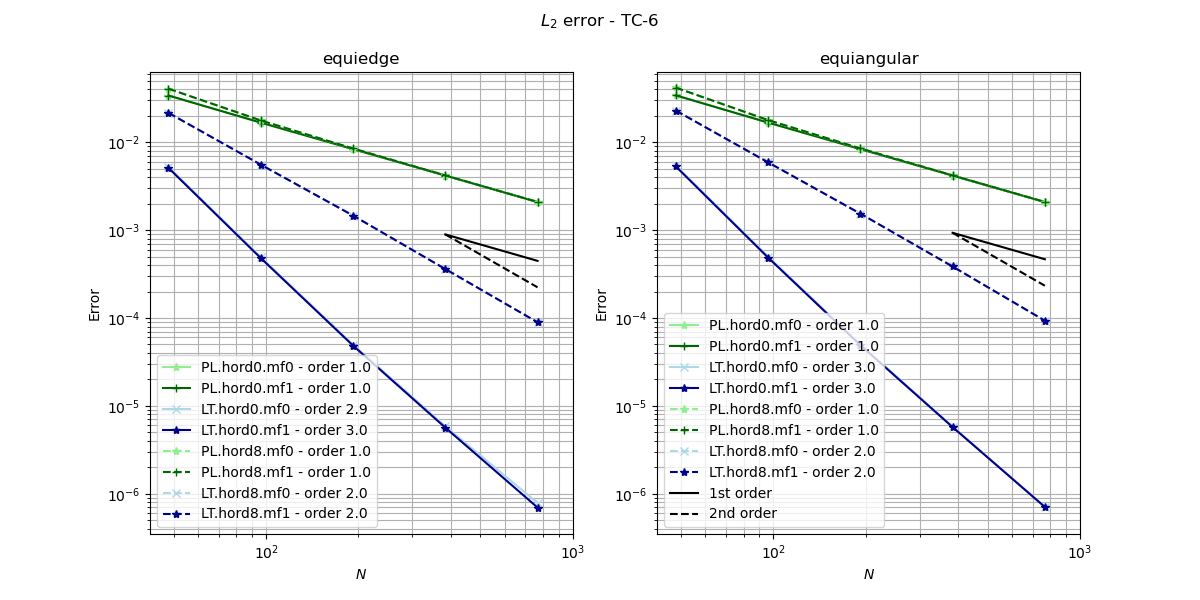
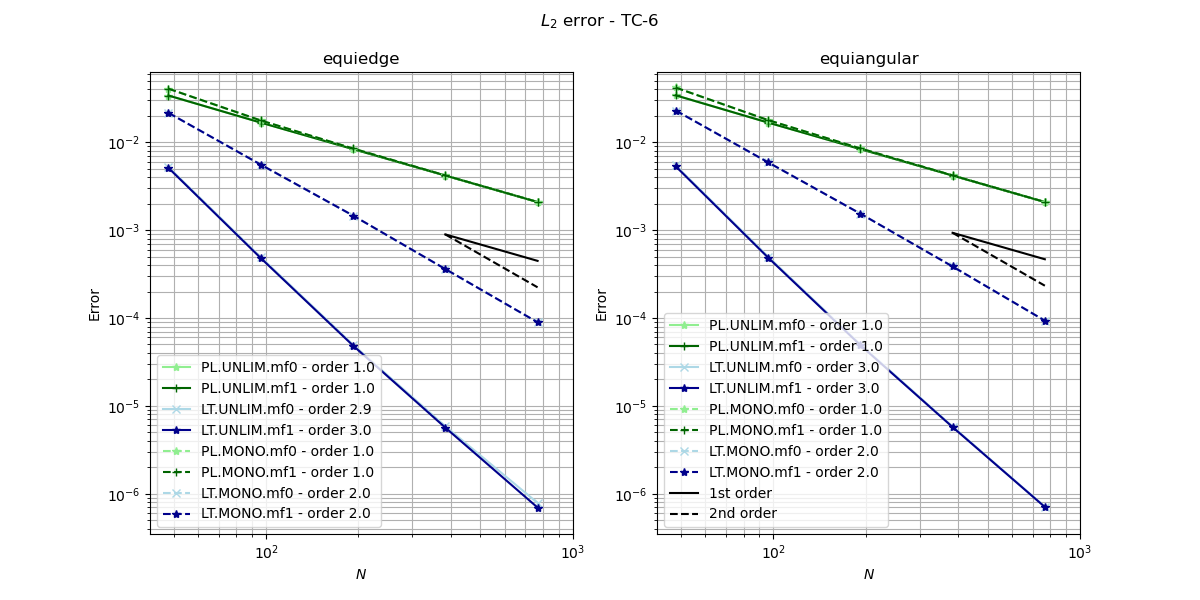
mono and unlim in chp5

Changed region(s): [[0.5858, 0.51, 0.74, 0.81], [0.185, 0.6, 0.3392, 0.87]]

diff --git a/conteudo/05-cs-fv.tex b/conteudo/05-cs-fv.tex
@@ -273,7 +273,7 @@ we introduce the following PPM flux in the $x$ direction (recall Equation \eqref
 	\end{cases}
 \end{align}
 for each $j=-\nu+1, \ldots, N+\nu$ and $i=1, \ldots, N$, and
-where the PPM perturbation values $b^L$ and $b^R$ values are computed using the unlimited PPM hord0 (Section \ref{chp-adv1d-sec-hord0}) or the limited PPM (hord8) (Section \ref{chp-adv1d-sec-hord8})
+where the PPM perturbation values $b^L$ and $b^R$ values are computed using the unlimited PPM (Section \ref{chp-adv1d-sec-hord0}) or the monotonic (Section \ref{chp-adv1d-sec-hord8})
 
 Therefore, we may rewrite Equation \eqref{1d-qx} as
 \begin{equation}
@@ -621,7 +621,7 @@ For an expression of the exact solution when using VF1 and a general initial con
 
 We are going to consider the schemes LT-DP2 and PL-DP1 since these schemes yield better results on planar simulations (Section \ref{sec-ds-exp}).
 For a shorter notation, we shall denote LT-DP2 and PL-DP1 by \textbf{LT} and \textbf{PL} advection schemes. 
-These schemes will be tested using the unlimited PPM (hord0) and the limited PPM (hord8) 1D PPM schemes.
+These schemes will be tested using the unlimited PPM  and the monotonic PPM scheme.
 As we mentioned in Section \ref{sec-metricppm}, the PL scheme needs the \textbf{mt1} 
 metric term formulation for the 1D flux operators to eliminate the splitting error for a constant scalar field.
 For the LT scheme, we shall use the \textbf{mt0} metric term formulation because for this scheme, 
@@ -697,7 +697,7 @@ eventually returning to its initial position.
 		8  \eqref{chp-advcs-sec-exp-adv2-d},
 		10  \eqref{chp-advcs-sec-exp-adv2-e},
 		and 12  \eqref{chp-advcs-sec-exp-adv2-f} days.
-		We are using the LT-hord8-mf1 scheme on the equiangular grid (g2) with $N=384$. \label{chp-advcs-sec-exp-adv2}}
+		We are using the LT-MONO-mf1 scheme on the equiangular grid (g2) with $N=384$. \label{chp-advcs-sec-exp-adv2}}
 \end{figure}
 
 The goal of this test is to observe the ability of all schemes and grids to perform this test without creating
@@ -706,12 +706,12 @@ In fact, in Figure \ref{chp-advcs-sec-exp-adv2-evol-linf} we show how the error 
 Similarly, Figure \ref{chp-advcs-sec-exp-adv2-evol-l2} shows the error evolution over time in the $L_2$ norm.
 Both figures use green lines to represent the PL scheme and blue lines to represent the LT scheme.
 Light colors denote cases where the mass fixer is not used, while dark colors represent cases where it is used. 
-Dashed lines represent the limited PPM (hord8) while solid lines represent the unlimited PPM (hord0).
+Dashed lines represent the monotonic while solid lines represent the unlimited PPM.
 
 \newpage
 In terms of the $L_2$ norm, as shown in Figure \ref{chp-advcs-sec-exp-adv2-evol-l2}, 
 no spikes are observed in the graphs corresponding to the days when the Gaussian passes over a corner.
-Another conclusion is that the mass fixer does not have too much impact on error evolution when the limited PPM (hord8) scheme is used.
+Another conclusion is that the mass fixer does not have too much impact on error evolution when the monotonic scheme is used.
 However, from Figure \ref{chp-advcs-sec-exp-adv2-evol-linf} we can see some small spikes in the $L_{\infty}$ error
 on the equi-edge grid (g0) when using the PL scheme, which is not very pronounced in the LT scheme.
 \begin{figure}[!htb]
@@ -721,7 +721,7 @@ on the equi-edge grid (g0) when using the PL scheme, which is not very pronounce
 		$L_{\infty}$ error evolution for IC1 (Table \ref{chp5-ic}) and VF1 (Table \ref{chp5-vf}) 
 		on the equi-edge grid (g0, left) and on the equiangular grid (g2, right) grids for 12 days and $N=384$.
 		Blue lines indicate the use of the LT scheme, while green lines represent the PL scheme.
-		Solid lines represent the results with the unlimited PPM (hord0) scheme, whereas dashed lines represent the results with the limited PPM (hord8).
+		Solid lines represent the results with the unlimited PPM (UNLIM) scheme, whereas dashed lines represent the results with the monotonic (MONO).
 		Light colors show the result without mass fixer (mf0), whereas dark colors show the results with flux averaging (mf1).
 		\label{chp-advcs-sec-exp-adv2-evol-linf}}
 \end{figure}
@@ -733,7 +733,7 @@ on the equi-edge grid (g0) when using the PL scheme, which is not very pronounce
 \end{figure}
 
 \newpage
-This indicates that LT is less sensitive to corners than PL when using hord8. 
+This indicates that LT is less sensitive to corners than PL when using MONO. 
 Indeed, Figure \ref{chp-advcs-sec-exp-adv2-errors-0} shows the final error at a cube corner for the equi-edge grid (g0), 
 and Figure \ref{chp-advcs-sec-exp-adv2-errors-2} shows it for the equiangular grid (g2).
 The results without a mass fixer are very similar and are not shown here. 
@@ -757,7 +757,7 @@ indicating that the equi-edge grid (g0) is less sensitive to the corner for the 
 	\end{subfigure}
 	\caption{
 		Advection experiment errors at a cube corner using the Gaussian hill (IC1, Table \ref{chp5-ic}) and  
-		the rotated zonal wind (VF1, Table \ref{chp5-vf}) after 12 days, using the limited PPM scheme (hord8) 
+		the rotated zonal wind (VF1, Table \ref{chp5-vf}) after 12 days, using the monotonic scheme (MONO) 
 		with PL (left) and LT schemes (right) on the equi-edge grid (g0) with $N=384$. 
 		\label{chp-advcs-sec-exp-adv2-errors-0}}
 \end{figure}
@@ -779,9 +779,9 @@ indicating that the equi-edge grid (g0) is less sensitive to the corner for the 
 
 \newpage
 Finally, in Figures \ref{chp-advcs-sec-exp-adv2-linf} and \ref{chp-advcs-sec-exp-adv2-l2} we show the error convergence in $L_{\infty}$ and $L_{2}$ norms.
-We can observe that all schemes with the unlimited PPM (hord0) achieve second-order accuracy as expected.
-However, for hord8, the order is reduced, which is also expected.
-Additionally, we can see that hord8 with LT has smaller errors when comparing the blue dashed lines with the green dashed lines, 
+We can observe that all schemes with the unlimited PPM (UNLIM) achieve second-order accuracy as expected.
+However, for MONO, the order is reduced, which is also expected.
+Additionally, we can see that MONO with LT has smaller errors when comparing the blue dashed lines with the green dashed lines, 
 for both $L_{\infty}$ and $L_{2}$ norms on both equi-edge grid (g0) and the equiangular grid (g2), indicating that LT is more accurate.
 In general, the errors of g0 are slightly smaller than those of g2.
 \begin{figure}[!htb]
@@ -792,7 +792,7 @@ $L_{\infty}$ error convergence for the advection on the sphere test using the Ga
 the rotated zonal wind  (VF1, Table \ref{chp5-vf}) on the equi-edge grid (g0, left) 
 and on the equiangular grid (g2, right) after 12 days.
 Blue lines indicate the use of the LT scheme, while green lines represent the PL scheme.
-Solid lines represent the results with the unlimited PPM (hord0) scheme, whereas dashed lines represent the results with limited PPM (hord8).
+Solid lines represent the results with the unlimited PPM (UNLIM) scheme, whereas dashed lines represent the results with the monotonic PPM (MONO).
 Light colors show the result without mass fixer (mf0), whereas dark colors show the results with flux averaging (mf1).\label{chp-advcs-sec-exp-adv2-linf}}
 \end{figure}
 
@@ -824,7 +824,7 @@ For $N=384$, the temporal evolution of the errors is very similar to that of IC1
 	\end{subfigure}
 	\caption{
 		Advection experiment errors at a cube corner using the cosine bell (IC2, Table \ref{chp5-ic}) and  
-the rotated zonal wind (VF1, Table \ref{chp5-vf}) after 12 days, using the limited PPM scheme (hord8) 
+the rotated zonal wind (VF1, Table \ref{chp5-vf}) after 12 days, using the monotonic scheme (MONO) 
 		with PL (left) and LT schemes (right) on the equi-edge grid (g0) grid with $N=384$. 
 		\label{chp-advcs-sec-exp-adv5-errors-0}}
 \end{figure}
@@ -851,11 +851,11 @@ We conclude again that LT has a smaller error at the corner, especially for the 
 In Figures \ref{chp-advcs-sec-exp-adv5-linf} and \ref{chp-advcs-sec-exp-adv5-l2},
 we show the error convergence for the $L_{\infty}$ and $L_2$ norms, respectively.
 Note that the errors in the $L_{\infty}$ norm (Figure \ref{chp-advcs-sec-exp-adv5-linf})
-for the unlimited PPM (hord0) (solid lines) are not achieving second order as they should because the solution is not differentiable.
-For hord8 (dashed lines), we can see that the $L_{\infty}$ errors for LT (blue lines) are smaller than the errors of PL (green lines), especially for the equi-edge grid (g0).
-Also, for the equi-edge grid (g0), the order of the LT-hord8 scheme in the $L_{\infty}$ norm gets very close to 2,
+for the unlimited PPM (solid lines) are not achieving second order as they should because the solution is not differentiable.
+For MONO (dashed lines), we can see that the $L_{\infty}$ errors for LT (blue lines) are smaller than the errors of PL (green lines), especially for the equi-edge grid (g0).
+Also, for the equi-edge grid (g0), the order of the LT-MONO scheme in the $L_{\infty}$ norm gets very close to 2,
 and for the equiangular grid (g2), its order surpasses two.
-These results for LT-hord8 are better than expected and are not observed for the PL-hord8 scheme.
+These results for LT-MONO are better than expected and are not observed for the PL-MONO scheme.
 Finally, the $L_2$ errors are very similar (Figure \ref{chp-advcs-sec-exp-adv5-l2}).
 \begin{figure}[!htb]
 	\centering
@@ -865,7 +865,7 @@ Finally, the $L_2$ errors are very similar (Figure \ref{chp-advcs-sec-exp-adv5-l
 		the rotated zonal wind  (VF1, Table \ref{chp5-vf}) on the equi-edge grid (g0, left) 
 		and on the equiangular grid (g2, right) after 12 days.
 		Blue lines indicate the use of the LT scheme, while green lines represent the PL scheme.
-		Solid lines represent the results with the unlimited PPM (hord0) scheme, whereas dashed lines represent the results with limited PPM (hord8).
+		Solid lines represent the results with the unlimited PPM (UNLIM) scheme, whereas dashed lines represent the results with monotonic (MONO).
 		Light colors show the result without mass fixer (mf0), whereas dark colors show the results with flux averaging (mf1).
 		\label{chp-advcs-sec-exp-adv5-linf}}
 \end{figure}
@@ -924,7 +924,7 @@ We show how the solution evolves with time in Figure \ref{chp-advcs-sec-exp-adv6
 		8  \eqref{chp-advcs-sec-exp-adv6-d},
 		10  \eqref{chp-advcs-sec-exp-adv6-e},
 		and 12  \eqref{chp-advcs-sec-exp-adv6-f} days.
-		We are using the LT-hord8-mf1 scheme on the equiangular grid (g2) with $N=192$. \label{chp-advcs-sec-exp-adv6}}
+		We are using the LT-MONO-mf1 scheme on the equiangular grid (g2) with $N=192$. \label{chp-advcs-sec-exp-adv6}}
 \end{figure}
 
 The goal of this test is to assess the qualitative behavior of the solution, 
@@ -938,23 +938,23 @@ It is evident that all the schemes yield similar results, and we cannot observe 
 	\begin{subfigure}{0.3\textwidth}
 		\centering
 		\includegraphics[width=1\linewidth]{h_tc-7_t12_alpha45_C192_g0_dg2_adv1_hord8_mf1_tf12}
-		\caption{PL-hord8 at g0.\label{chp-advcs-sec-exp-adv7-b}}
+		\caption{PL-MONO at g0.\label{chp-advcs-sec-exp-adv7-b}}
 	\end{subfigure}
 	\begin{subfigure}{0.3\textwidth}
 		\centering
 		\includegraphics[width=1\linewidth]{h_tc-7_t12_alpha45_C192_g0_dg2_adv2_hord8_mf1_tf12}
-		\caption{LT-hord8 at g0.\label{chp-advcs-sec-exp-adv7-c}}
+		\caption{LT-MONO at g0.\label{chp-advcs-sec-exp-adv7-c}}
 	\end{subfigure}
 	
 	\begin{subfigure}{0.3\textwidth}
 		\centering
 		\includegraphics[width=1\linewidth]{h_tc-7_t12_alpha45_C192_g2_dg2_adv1_hord8_mf1_tf12}
-		\caption{PL-hord8 at g2.\label{chp-advcs-sec-exp-adv7-d}}
+		\caption{PL-MONO at g2.\label{chp-advcs-sec-exp-adv7-d}}
 	\end{subfigure}
 	\begin{subfigure}{0.3\textwidth}
 	\centering
 	\includegraphics[width=1\linewidth]{h_tc-7_t12_alpha45_C192_g2_dg2_adv2_hord8_mf1_tf12a}
-	\caption{PL-hord8 at g2.\label{chp-advcs-sec-exp-adv7-e}}
+	\caption{PL-MONO at g2.\label{chp-advcs-sec-exp-adv7-e}}
     \end{subfigure}
 
 	\begin{subfigure}{0.3\textwidth}
@@ -963,9 +963,9 @@ It is evident that all the schemes yield similar results, and we cannot observe 
 	\caption{IC and exact solution at day 12.\label{chp-advcs-sec-exp-adv7-a}}
     \end{subfigure}
 	\caption{Cylinder at corner test with $N=192$ after 12 days for the schemes 
-	PL-hord8 at the equi-edge grid (g0) (a),	LT-hord8 at the equi-edge grid (g0) (b), 
-	PL-hord8 at the equiangular grid (g2) (c) and LT-hord8 at the equiangular grid (g2) (d).
-	(e) depicts the reference solution. The limited PPM scheme is denoted by hord8.
+	PL-MONO at the equi-edge grid (g0) (a),	LT-MONO at the equi-edge grid (g0) (b), 
+	PL-MONO at the equiangular grid (g2) (c) and LT-MONO at the equiangular grid (g2) (d).
+	(e) depicts the reference solution. The monotonic scheme is denoted by MONO.
 	\label{chp-advcs-sec-exp-adv7}}
 \end{figure}
 
@@ -1020,7 +1020,7 @@ This test is the spherical analogous of the planar divergence free deformational
 		8  \eqref{chp-advcs-sec-exp-adv3-d},
 		10  \eqref{chp-advcs-sec-exp-adv3-e},
 		and 12  \eqref{chp-advcs-sec-exp-adv3-f} days.
-		We are using the LT-hord8-mf1 scheme on the equiangular grid (g2) with $N=384$.\label{chp-advcs-sec-exp-adv3}}
+		We are using the LT-MONO-mf1 scheme on the equiangular grid (g2) with $N=384$.\label{chp-advcs-sec-exp-adv3}}
 \end{figure}
 
 Figures \ref{chp-advcs-sec-exp-adv3-errors-0} and \ref{chp-advcs-sec-exp-adv3-errors-2} show 
@@ -1050,7 +1050,7 @@ These figures show the advected profile after
 8  \eqref{chp-advcs-sec-exp-adv3-d},
 10  \eqref{chp-advcs-sec-exp-adv3-e},
 and 12  \eqref{chp-advcs-sec-exp-adv3-f} days.
-We are using the LT-hord8-mf1 scheme on the equiangular grid (g2) with $N=384$.
+We are using the LT-MONO-mf1 scheme on the equiangular grid (g2) with $N=384$.
 		 \label{chp-advcs-sec-exp-adv3-errors-0}}
 \end{figure}
 \begin{figure}[!htb]
@@ -1068,9 +1068,9 @@ We are using the LT-hord8-mf1 scheme on the equiangular grid (g2) with $N=384$.
 	\caption{As Figure \ref{chp-advcs-sec-exp-adv3-errors-0} but using the equiangular grid (g2).\label{chp-advcs-sec-exp-adv3-errors-2}}
 \end{figure}
 Figures \ref{chp-advcs-sec-exp-adv3-linf} and \ref{chp-advcs-sec-exp-adv3-l2} we show the error convergence in $L_{\infty}$ and $L_{2}$ norms.
-Once more, it is evident that all schemes with the unlimited PPM (hord0) achieve second-order accuracy as expected, while those with limited PPM (hord8) experience a reduced order 
-in $L_{\infty}$ norm. In $L_{2}$ norm, the order is 2 for hord8.
-Furthermore, LT demonstrates smaller errors when utilizing hord8, reaffirming that LT is indeed more accurate than PL.
+Once more, it is evident that all schemes with the unlimited PPM (UNLIM) achieve second-order accuracy as expected, while those with the monotonic PPM (MONO) experience a reduced order 
+in $L_{\infty}$ norm. In $L_{2}$ norm, the order is 2 for MONO.
+Furthermore, LT and PL demonstrate the same errors when utilizing MONO.%, reaffirming that LT is indeed more accurate than PL.
 We also notice that the mass fixer does not impact the errors.
 \newpage
 \begin{figure}[!htb]
@@ -1080,7 +1080,7 @@ We also notice that the mass fixer does not impact the errors.
 $L_{\infty}$ error convergence for the advection on the sphere test using the two Gaussian hills  (IC4, Table \ref{chp5-ic}) and the variable in time divergent-free wind
 (VF2, Table \ref{chp5-vf}) on the equi-edge grid (g0, left) and on the equiangular grid (g2, right) after 12 days.
 Blue lines indicate the use of the LT scheme, while green lines represent the PL scheme.
-Solid lines represent the results with the unlimited PPM (hord0) scheme, whereas dashed lines represent the results with the limited PPM (hord8).
+Solid lines represent the results with the unlimited PPM (UNLIM) scheme, whereas dashed lines represent the results with the monotonic PPM (MONO).
 Light colors show the result without mass fixer (mf0), whereas dark colors show the results with flux averaging (mf1).
 \label{chp-advcs-sec-exp-adv3-linf}}
 \end{figure}
@@ -1144,7 +1144,7 @@ These figures show the advected profile after
 8  \eqref{chp-advcs-sec-exp-adv4-d},
 10  \eqref{chp-advcs-sec-exp-adv4-e},
 and 12  \eqref{chp-advcs-sec-exp-adv4-f} days.
-We are using the LT-hord8-mf1 scheme on the equiangular grid (g2) with $N=384$. \label{chp-advcs-sec-exp-adv4}}
+We are using the LT-MONO-mf1 scheme on the equiangular grid (g2) with $N=384$. \label{chp-advcs-sec-exp-adv4}}
 \end{figure}
 
 Figures \ref{chp-advcs-sec-exp-adv4-errors-0} and \ref{chp-advcs-sec-exp-adv4-errors-2} show the final error at a cube face 
@@ -1165,7 +1165,7 @@ We can observe that the errors for PL are much larger, with significant errors p
 		\caption{LT scheme.\label{chp-advcs-sec-exp-adv4-errors-0b}}
 	\end{subfigure}
 	\caption{
-		Advection experiment errors using the two Gaussian hills (IC4, Table \ref{chp5-ic}) and  the divergent wind (VF3, Table \ref{chp5-vf}) after 12 days, using the limited PPM scheme (hord8)
+		Advection experiment errors using the two Gaussian hills (IC4, Table \ref{chp5-ic}) and  the divergent wind (VF3, Table \ref{chp5-vf}) after 12 days, using the monotonic scheme (MONO)
 	 with PL (left) and LT schemes (right) on the equi-edge grid (g0) with $N=384$.
 	 \label{chp-advcs-sec-exp-adv4-errors-0}}
 \end{figure}
@@ -1186,10 +1186,10 @@ We can observe that the errors for PL are much larger, with significant errors p
 
 Figures \ref{chp-advcs-sec-exp-adv4-linf} and \ref{chp-advcs-sec-exp-adv4-l2} we show the error convergence in $L_{\infty}$ and $L_{2}$ norms.
 These figures highlight a major significant distinction between LT and PL schemes, unlike the previous tests.
-It is clear that PL with the unlimited PPM (hord0) achieves only first-order accuracy, whereas LT with the unlimited PPM (hord0) achieves third-order accuracy, 
+It is clear that PL with the unlimited PPM achieves only first-order accuracy, whereas LT with the unlimited PPM (UNLIM) achieves third-order accuracy, 
 surpassing second-order the expectation, for both equi-edge grid (g0) and the equiangular grid (g2) and norms.
-For the limited PPM (hord8), LT demonstrates second-order accuracy in the $L_2$ norm, while PL is only first-order.
-LT with the limited PPM (hord8) exhibits smaller errors in the $L_{\infty}$ norm compared to the PL scheme for all grids.
+For the monotonic  scheme (MONO), LT demonstrates second-order accuracy in the $L_2$ norm, while PL is only first-order.
+LT with the monotonic scheme (MONO) exhibits smaller errors in the $L_{\infty}$ norm compared to the PL scheme for all grids.
 This discrepancy arises because the PL splitting is designed for divergence-free flows, while LT is designed to be second-order regardless of the flow characteristics.
 Finally, these results are similar to the planar divergent deformational flow test presented in Section \ref{2d-adv-divflow}.
 
@@ -1203,7 +1203,7 @@ Finally, these results are similar to the planar divergent deformational flow te
 		(VF3, Table \ref{chp5-vf}) on the equi-edge grid (g0, left) 
 		and on the equiangular grid (g2, right) after 12 days.
 		Blue lines indicate the use of the LT scheme, while green lines represent the PL scheme.
-		Solid lines represent the results with the unlimited PPM (hord0) scheme, whereas dashed lines represent the results with the limited PPM (hord8).
+		Solid lines represent the results with the unlimited PPM (UNLIM) scheme, whereas dashed lines represent the results with the monotonic PPM (MONO).
 		Light colors show the result without mass fixer (mf0), whereas dark colors show the results with flux averaging (mf1).
 	\label{chp-advcs-sec-exp-adv4-linf}}
 \end{figure}
